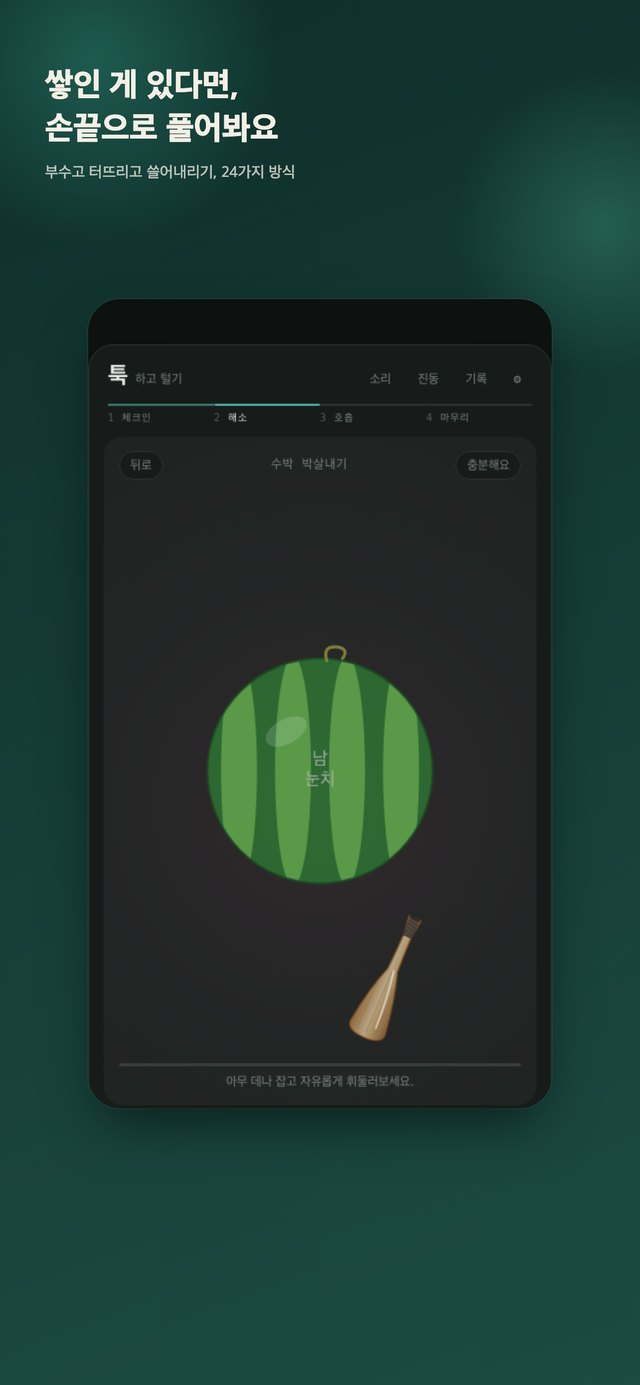
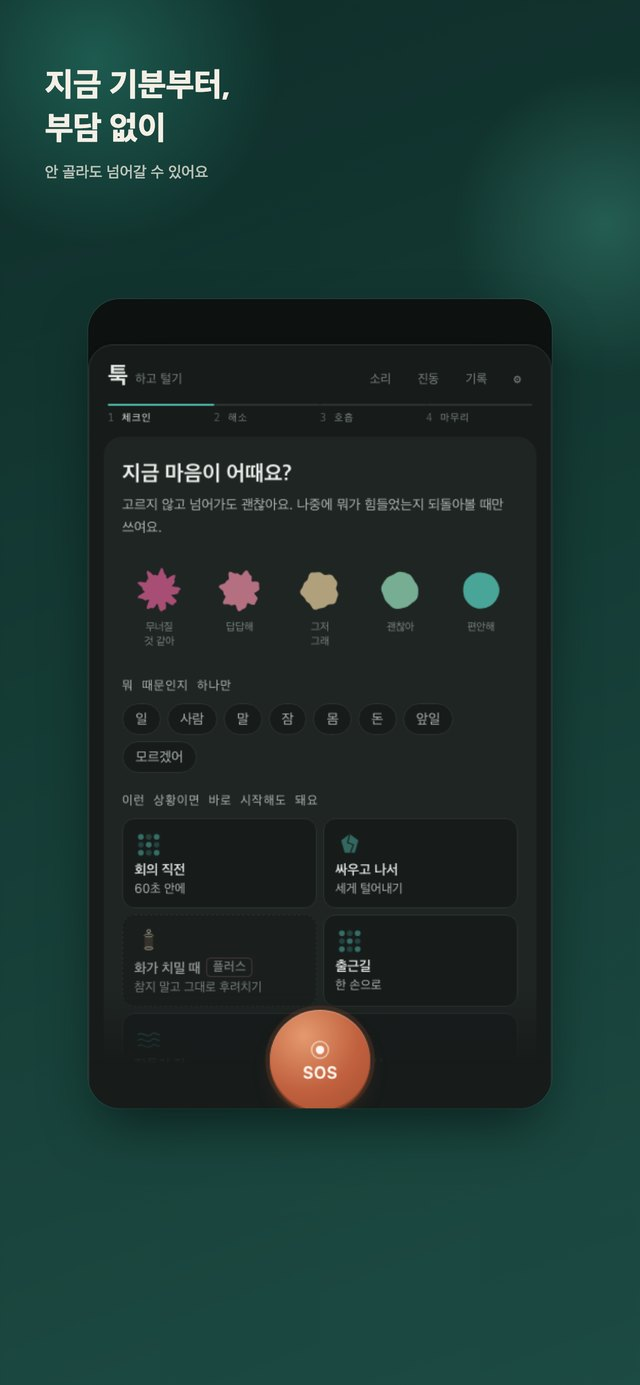
Swap hero screenshot, mark Google Play as coming soon

diff --git a/index.html b/index.html
@@ -37,6 +37,8 @@
   }
   .badge:active{transform:scale(.97)}
   .badge svg{width:20px;height:20px;flex:none}
+  .badge.soon{background:transparent;color:var(--ink-2);border:1px solid var(--line);box-shadow:none;cursor:default}
+  .badge.soon small{color:var(--haze);font-weight:500;margin-left:2px}
   .hero-shot{max-width:300px;margin:0 auto;border-radius:28px;overflow:hidden;box-shadow:0 30px 60px -20px rgba(0,0,0,.6)}
   .hero-shot img{display:block;width:100%}
 
@@ -78,10 +80,10 @@
         <svg viewBox="0 0 384 512" fill="currentColor"><path d="M318.7 268.7c-.2-36.7 16.4-64.4 50-84.8-18.8-26.9-47.2-41.7-84.7-44.6-35.5-2.8-74.3 20.7-88.5 20.7-15 0-49.4-19.7-76.4-19.7C63.3 141.2 4 184.8 4 273.5q0 39.3 14.4 81.2c12.8 36.7 59 126.7 107.2 125.2 25.2-.6 43-17.9 75.8-17.9 31.8 0 48.3 17.9 76.4 17.9 48.6-.7 90.4-82.5 102.6-119.3-65.2-30.7-61.7-90-61.7-91.9zm-56.6-164.2c27.3-32.4 24.8-61.9 24-72.5-24.1 1.4-52 16.4-67.9 34.9-17.5 19.8-27.8 44.3-25.6 71.9 26.1 2 49.9-11.4 69.5-34.3z"/></svg>
         App Store
       </a>
-      <a class="badge" href="https://play.google.com/store/apps/details?id=com.hesoapp.tuk" target="_blank" rel="noopener">
+      <span class="badge soon">
         <svg viewBox="0 0 512 512" fill="currentColor"><path d="M325.3 234.3L104.6 13l280.8 161.2-60.1 60.1zM47 0C34 6.8 25.3 19.2 25.3 35.3v441.3c0 16.1 8.7 28.5 21.7 35.3l256.6-256L47 0zm425.2 225.6l-58.9-34.1-65.7 64.5 65.7 64.5 60-34.1c17.7-11.7 17.7-49.6-1.1-60.8zM104.6 499l280.8-161.2-60.1-60.1L104.6 499z"/></svg>
-        Google Play
-      </a>
+        Google Play <small>· 출시예정</small>
+      </span>
     </div>
     <div class="hero-shot">
       <img src="assets/shot-hero.jpg" alt="툭 앱 스크린샷 - 수박 박살내기" loading="eager">
@@ -113,10 +115,10 @@
         <svg viewBox="0 0 384 512" fill="currentColor"><path d="M318.7 268.7c-.2-36.7 16.4-64.4 50-84.8-18.8-26.9-47.2-41.7-84.7-44.6-35.5-2.8-74.3 20.7-88.5 20.7-15 0-49.4-19.7-76.4-19.7C63.3 141.2 4 184.8 4 273.5q0 39.3 14.4 81.2c12.8 36.7 59 126.7 107.2 125.2 25.2-.6 43-17.9 75.8-17.9 31.8 0 48.3 17.9 76.4 17.9 48.6-.7 90.4-82.5 102.6-119.3-65.2-30.7-61.7-90-61.7-91.9zm-56.6-164.2c27.3-32.4 24.8-61.9 24-72.5-24.1 1.4-52 16.4-67.9 34.9-17.5 19.8-27.8 44.3-25.6 71.9 26.1 2 49.9-11.4 69.5-34.3z"/></svg>
         App Store
       </a>
-      <a class="badge" href="https://play.google.com/store/apps/details?id=com.hesoapp.tuk" target="_blank" rel="noopener">
+      <span class="badge soon">
         <svg viewBox="0 0 512 512" fill="currentColor"><path d="M325.3 234.3L104.6 13l280.8 161.2-60.1 60.1zM47 0C34 6.8 25.3 19.2 25.3 35.3v441.3c0 16.1 8.7 28.5 21.7 35.3l256.6-256L47 0zm425.2 225.6l-58.9-34.1-65.7 64.5 65.7 64.5 60-34.1c17.7-11.7 17.7-49.6-1.1-60.8zM104.6 499l280.8-161.2-60.1-60.1L104.6 499z"/></svg>
-        Google Play
-      </a>
+        Google Play <small>· 출시예정</small>
+      </span>
     </div>
   </section>
 
